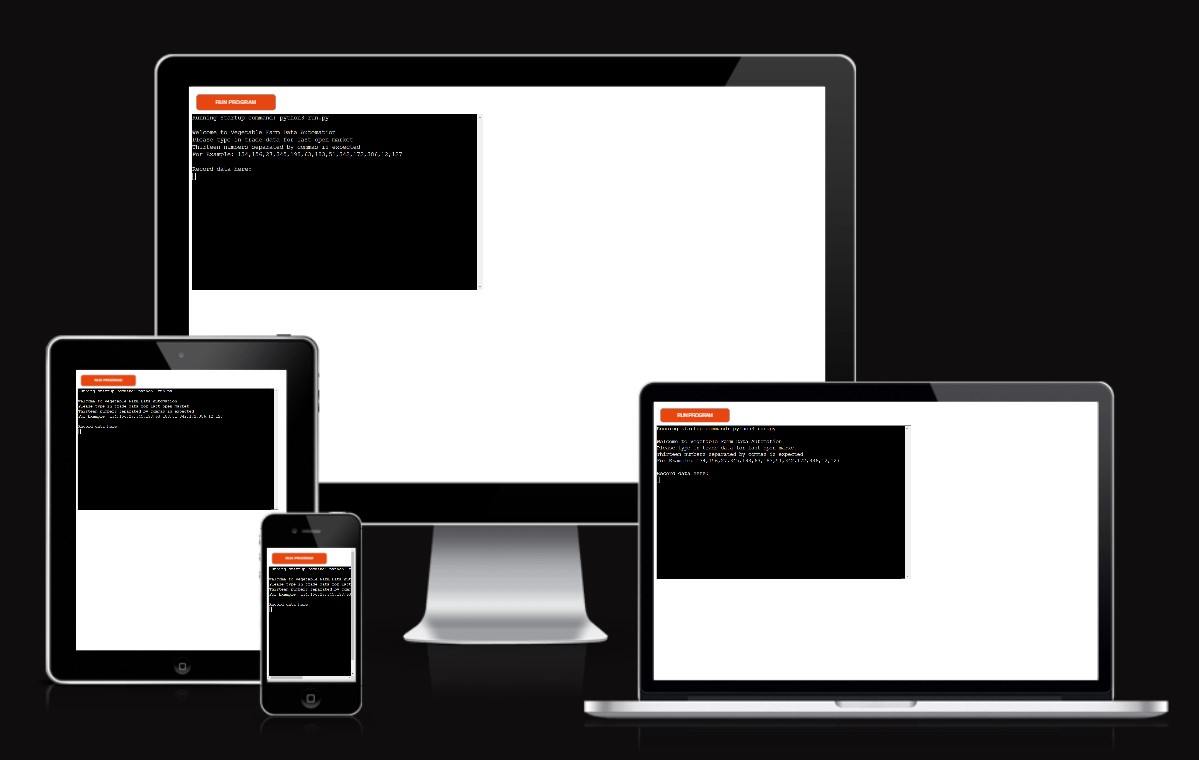
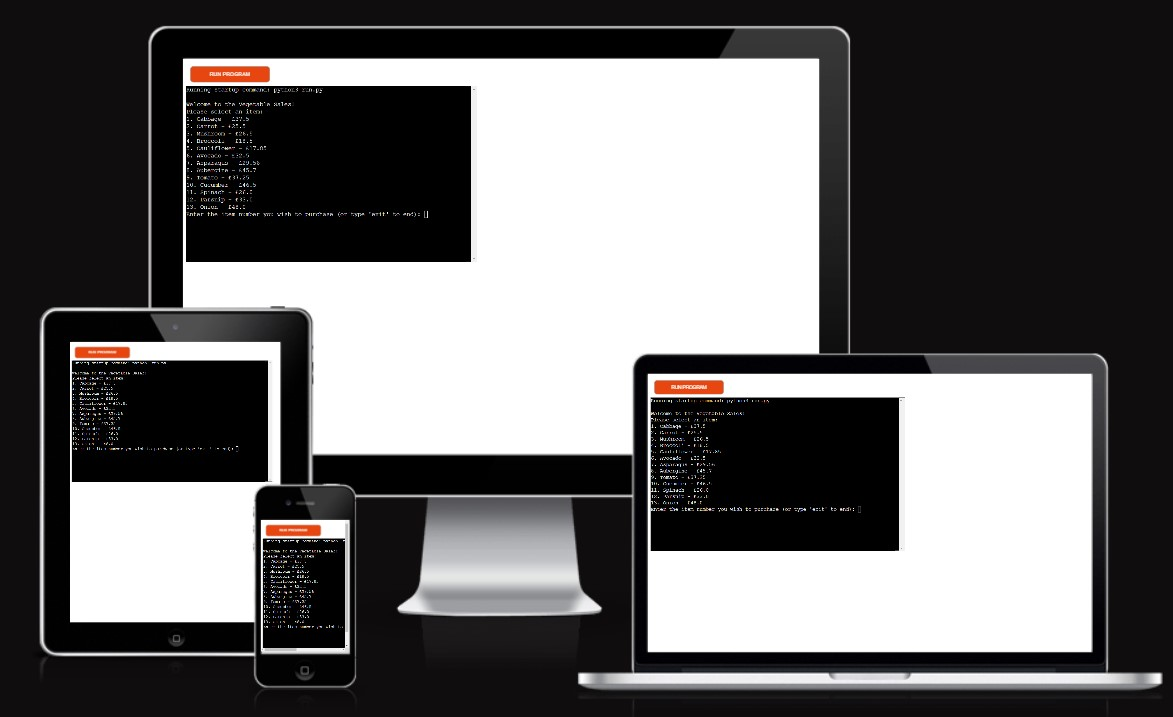
Add data model, error handling and lucid chart to README.md

Changed region(s): [[0.0307, 0.0307, 1.0, 0.9819]]

diff --git a/run.py b/run.py
@@ -1,18 +1,19 @@
-## Deleted the previous codes, hence starting afresh in same workspace and repository"
+# Deleted the previous codes, hence starting afresh in same
+# workspace and repository
 import gspread
 from google.oauth2.service_account import Credentials
- 
+
 SCOPE = [
     "https://www.googleapis.com/auth/spreadsheets",
     "https://www.googleapis.com/auth/drive.file",
     "https://www.googleapis.com/auth/drive"
     ]
- 
+
 CREDS = Credentials.from_service_account_file("creds.json")
 SCOPED_CREDS = CREDS.with_scopes(SCOPE)
 GSPREAD_CLIENT = gspread.authorize(SCOPED_CREDS)
 SPREADSHEET = GSPREAD_CLIENT.open("vegetable_farm_sales")
- 
+
 VEGETABLES_BOX = {
     "1": {"name": "Cabbage", "price": 37.50},
     "2": {"name": "Carrot", "price": 25.50},
@@ -28,33 +29,33 @@ VEGETABLES_BOX = {
     "12": {"name": "Parsnip", "price": 33.00},
     "13": {"name": "Onion", "price": 48.00},
 }
- 
+
 
 def execute_vegetable_sales():
     """
     Execute vegetable sales
     """
     # Display available produce and prices
-    print("Welcome to the Vegetable Sales!")
+    print("Welcome to the Produce Sales!")
     print("Please select an item:")
- 
+
     for key, vegetable in VEGETABLES_BOX.items():
         print(f"{key}. {vegetable['name']} - £{vegetable['price']}")
- 
+
     # Prompt user selection
     while True:
-        user_selection = input("Enter the item number you wish to purchase (or type 'exit' to end): ")
- 
+        user_selection = input("Enter the item number you wish to purchase(or type 'exit' to end):")
+
         if user_selection.lower() == 'exit':
             print("Thank you for checking our produce!")
             break
- 
+
         # Confirm availability of selected item
         if user_selection in VEGETABLES_BOX:
             chosen_vegetable = VEGETABLES_BOX[user_selection]
             print(f"You have selected {chosen_vegetable['name']}.")
             total_due = chosen_vegetable['price']
- 
+
             # Prompt user payment
             total_inserted = 0
             while total_inserted < total_due:
@@ -72,10 +73,9 @@ def execute_vegetable_sales():
             break
         else:
             print("Invalid selection. Please try again.")
- 
     return None, 0, False, 0
- 
- 
+
+
 def updateworksheet_sales(item: "vegetable", total_due: float):
     """
     Update sales worksheet for each purchase for back office inventory
@@ -84,7 +84,7 @@ def updateworksheet_sales(item: "vegetable", total_due: float):
             The name of the item purchased.
         - total_due: float or integer
             The value of the purchase.
- 
+
         Raises:
         - Exception:
             If there is an issue updating the sales worksheet.
@@ -93,39 +93,39 @@ def updateworksheet_sales(item: "vegetable", total_due: float):
     try:
         worksheet = SPREADSHEET.worksheet("sales")
         next_row = len(worksheet.get_all_values()) + 1
- 
+
         worksheet.update_cell(next_row, 1, item["name"])
         worksheet.update_cell(next_row, 2, total_due)
- 
+
     except Exception as e:
         raise Exception(f"An error occurred while updating the sales worksheet: {e}")
     print("Sales Worksheet successfully updated\n")
- 
- 
+
+
 def convert_and_sum(all_col_values_except_first):
     """
     Back office to calculate total daily sales at the end of each market day.
-    Convert list strings pulled from sales worksheet to 
+    Convert list strings pulled from sales worksheet to
     float and integer and sum up daily total
     parameter:
         - all_col_values_except_first: Amount column from worksheet
                                        Excluding the header
     """
- 
+
     for value in all_col_values_except_first:
- 
+
         try:
             float(value)
         except ValueError:
             raise ValueError(f"Invalid data '{value}': All data must be integer or float string.")
- 
+
     float_values = [float(value) for value in all_col_values_except_first]
- 
+
     total_sum = sum(float_values)
     print(f"Total daily Sales: £{total_sum}")
- 
+
     return total_sum
- 
+
 
 def calculate_daily_sales():
     """
@@ -133,19 +133,21 @@ def calculate_daily_sales():
     Pull list of strings from sales worksheet
     """
     worksheet = SPREADSHEET.worksheet("sales")
-    colvalues = worksheet.col_values(2)  
-    all_col_values_except_first = colvalues[1:]   
- 
+    colvalues = worksheet.col_values(2)
+    all_col_values_except_first = colvalues[1:]
+
     return all_col_values_except_first
- 
+
 
 def main():
     """
     Run program functions
     """
-    vegetable, total_due, should_record, total_inserted = execute_vegetable_sales()
+    vegetable, total_due,should_record, total_inserted = execute_vegetable_sales()
     if should_record:
         updateworksheet_sales(vegetable, total_due)
     total_sum = calculate_daily_sales()
     convert_and_sum(total_sum)
+
+
 main()

diff --git a/README.md b/README.md
@@ -10,23 +10,31 @@ Famer can also use the system to understand total daily sales at the end of each
 
   ![deployed app](./assets/readme-images/deployed%20app.jpg)
 #### User Demographic
-Vegetable farm data automation can be used by small to medium size vegetable farmers 
+Vegetable farm produce sales system can be used by small to medium size vegetable farmers 
 #### How to Use
-Vegetable farm data automation is based on gathering statistical data used to improve farmers harvest forecast for longer vegetable shelf life.
+Vegetable farm produce sales system is used for easy self-serve vegetable purchase. It can also be used by back office (famer) to understand daily sales, hence facilitate daily farmers vegetable availability planning.
 
 Step 1. Run the program (python3 run.py)
 
-Step 2. Enter trade data, collection of 13 numeric integers separated with commas
+Step 2. From the dispplayed items, enter item number of your choice
 
 Step 3. Hit enter to run the program
 
-Step 4. Trade worksheet auto Update
+Step 4. Enter amount displayed for your selected item
 
-Step 5. Excess worksheet auto Update
+Step 5. Hit enter to run the program
 
-Step 6. Harvest worksheet auto Update
+Step 6. If amount entered is not sufficient, program will display remaining amount and request user input
 
-Step 7. Print harvest forecast on terminal for next day
+Step 7. If amount entered is greater than produce price program will return balance
+
+Step 8. Hit enter once correct amount is entered
+
+Step 9. Sales worksheet auto update with item and amount 
+
+**Back-Office**
+Step 10. Program total amount sold at end of each market day
+
 
 
 ## Design
@@ -37,29 +45,19 @@ Lucid Chart to demonstrate development flow
 ### Existing Features
 #### Error handling:
 
-      * Input must be numeric integers
+      * Input must be item number
 
-      * Input must be collection of 13 numeric integers separated with commas
+      * Input amount must be >= price of vegetable
+ 
+      * Sales worksheet values for total daily sum must be integers or float
 
-* Trade worksheet updated when valid record is entered
-
-* Excess calculated and worksheet updated
-
-* Harvest forecast calculated and worksheet updated
-
-* Next day harvest forecast printed to terminal
 
 ### Future Features
 
-* Forecast harvest numbers for a longer period and seasons, e.g. summer, 
-  Christmas etc using average trade, harvest and excess data for several weeks.
-
-* Convert vegetables to be weighed in tonnes  
+* Convert vegetables to be weighed in tonnes for large vegetable farmers 
 
 ## Data Model
-Google sheet containing three worksheets (trade, excess and harvest)  was used with thirteen columns. The trade and excess worksheet contains nine rows of data while the harvest worksheet contains ten rows of data.
-Excess worksheet represents the subtraction of trade data from harvest data which is achieved by using the function calculate_excess_data parsing trade_row. 
-Harvest forecast is the average  trade for last week (7 days) and a markup of 20%.
+Google sheet containing one sales worksheet  was used were vegetables names are updated with corresponding purchased value and sum of total amount sold for back office use.
 
 
 ## Validation Testing
